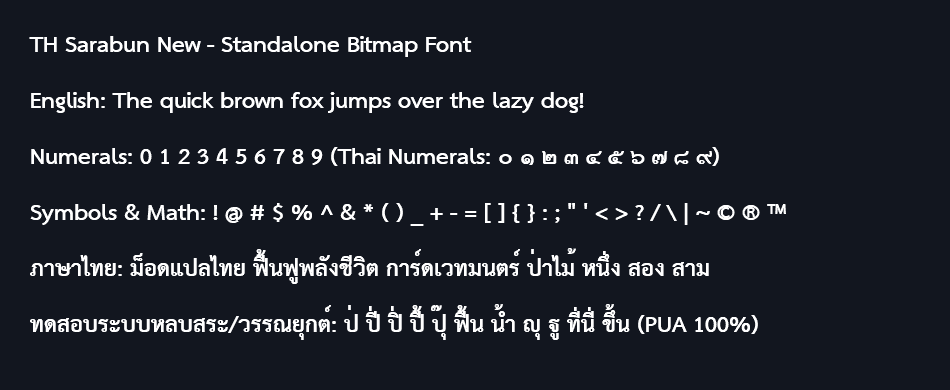
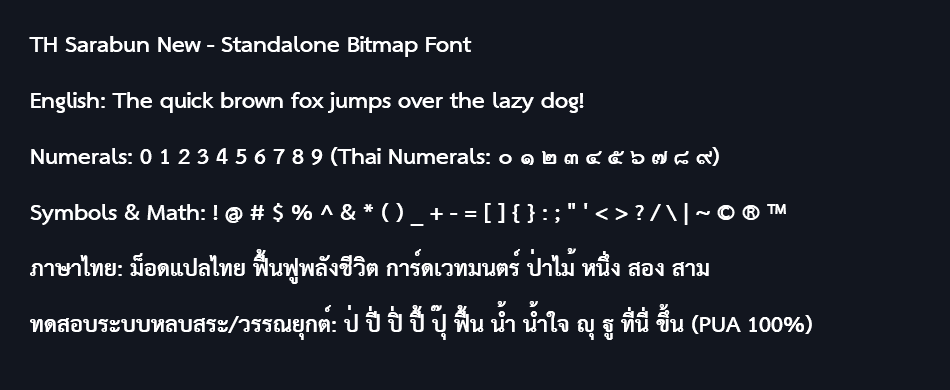
fix(shaper): resolve Sara Am tone mark overlap for both typing sequences and add น้ำใจ to showcase

Changed region(s): [[0.5189, 0.7692, 0.8547, 0.8615]]

diff --git a/tools/thai_shaper.js b/tools/thai_shaper.js
@@ -54,12 +54,25 @@ function shapeThaiText(str) {
     '\u0E4D': '\uF71A'  // Nikhahit Shifted
   };
 
-  // 2. SARA AM (ำ) and Tone Marks
-  // Tall consonants with Sara Am and Tone (e.g. ปล้ำ, ป้ำ)
+  // 2. SARA AM (ำ U+0E33) and Tone Marks (่, ้, ๊, ๋, ์ U+0E48 - U+0E4C)
+  // Normalize decomposed Sara Am (ํ U+0E4D + า U+0E32) if present
+  s = s.replace(/\u0E4D\u0E32/g, '\u0E33');
+  s = s.replace(/([\u0E48-\u0E4C])\u0E4D\u0E32/g, '$1\u0E33');
+  s = s.replace(/\u0E4D([\u0E48-\u0E4C])\u0E32/g, '$1\u0E33');
+
+  // Both typing sequences:
+  // Case A: [Consonant] + [Tone Mark] + [Sara Am]  (e.g. น + ้ + ำ)
+  // Case B: [Consonant] + [Sara Am] + [Tone Mark]  (e.g. น + ำ + ้)
+
+  // Tall consonants (ป, ฝ, ฟ, ฬ, ผ) -> High Shifted Tone (0xF70A - 0xF70E)
   s = s.replace(/([\u0E1B\u0E1D\u0E1F\u0E2C\u0E1C])([\u0E48-\u0E4C])\u0E33/g, (m, c, t) => c + highShiftedToneMap[t] + '\u0E33');
   s = s.replace(/([\u0E1B\u0E1D\u0E1F\u0E2C\u0E1C])\u0E33([\u0E48-\u0E4C])/g, (m, c, t) => c + highShiftedToneMap[t] + '\u0E33');
 
-  // Normal consonants with Sara Am and Tone (e.g. น้ำ, ค่ำ, ถ้ำ)
+  // Normal Thai consonants (ก-ฮ and cut-base variants) -> Upper-level High Tone (0xF700 - 0xF704)
+  s = s.replace(/([\u0E01-\u0E2E\uF70F\uF710])([\u0E48-\u0E4C])\u0E33/g, (m, c, t) => c + highToneMap[t] + '\u0E33');
+  s = s.replace(/([\u0E01-\u0E2E\uF70F\uF710])\u0E33([\u0E48-\u0E4C])/g, (m, c, t) => c + highToneMap[t] + '\u0E33');
+
+  // Standalone / fallback tone mark adjacent to Sara Am
   s = s.replace(/([\u0E48-\u0E4C])\u0E33/g, (m, t) => highToneMap[t] + '\u0E33');
   s = s.replace(/\u0E33([\u0E48-\u0E4C])/g, (m, t) => highToneMap[t] + '\u0E33');
 
